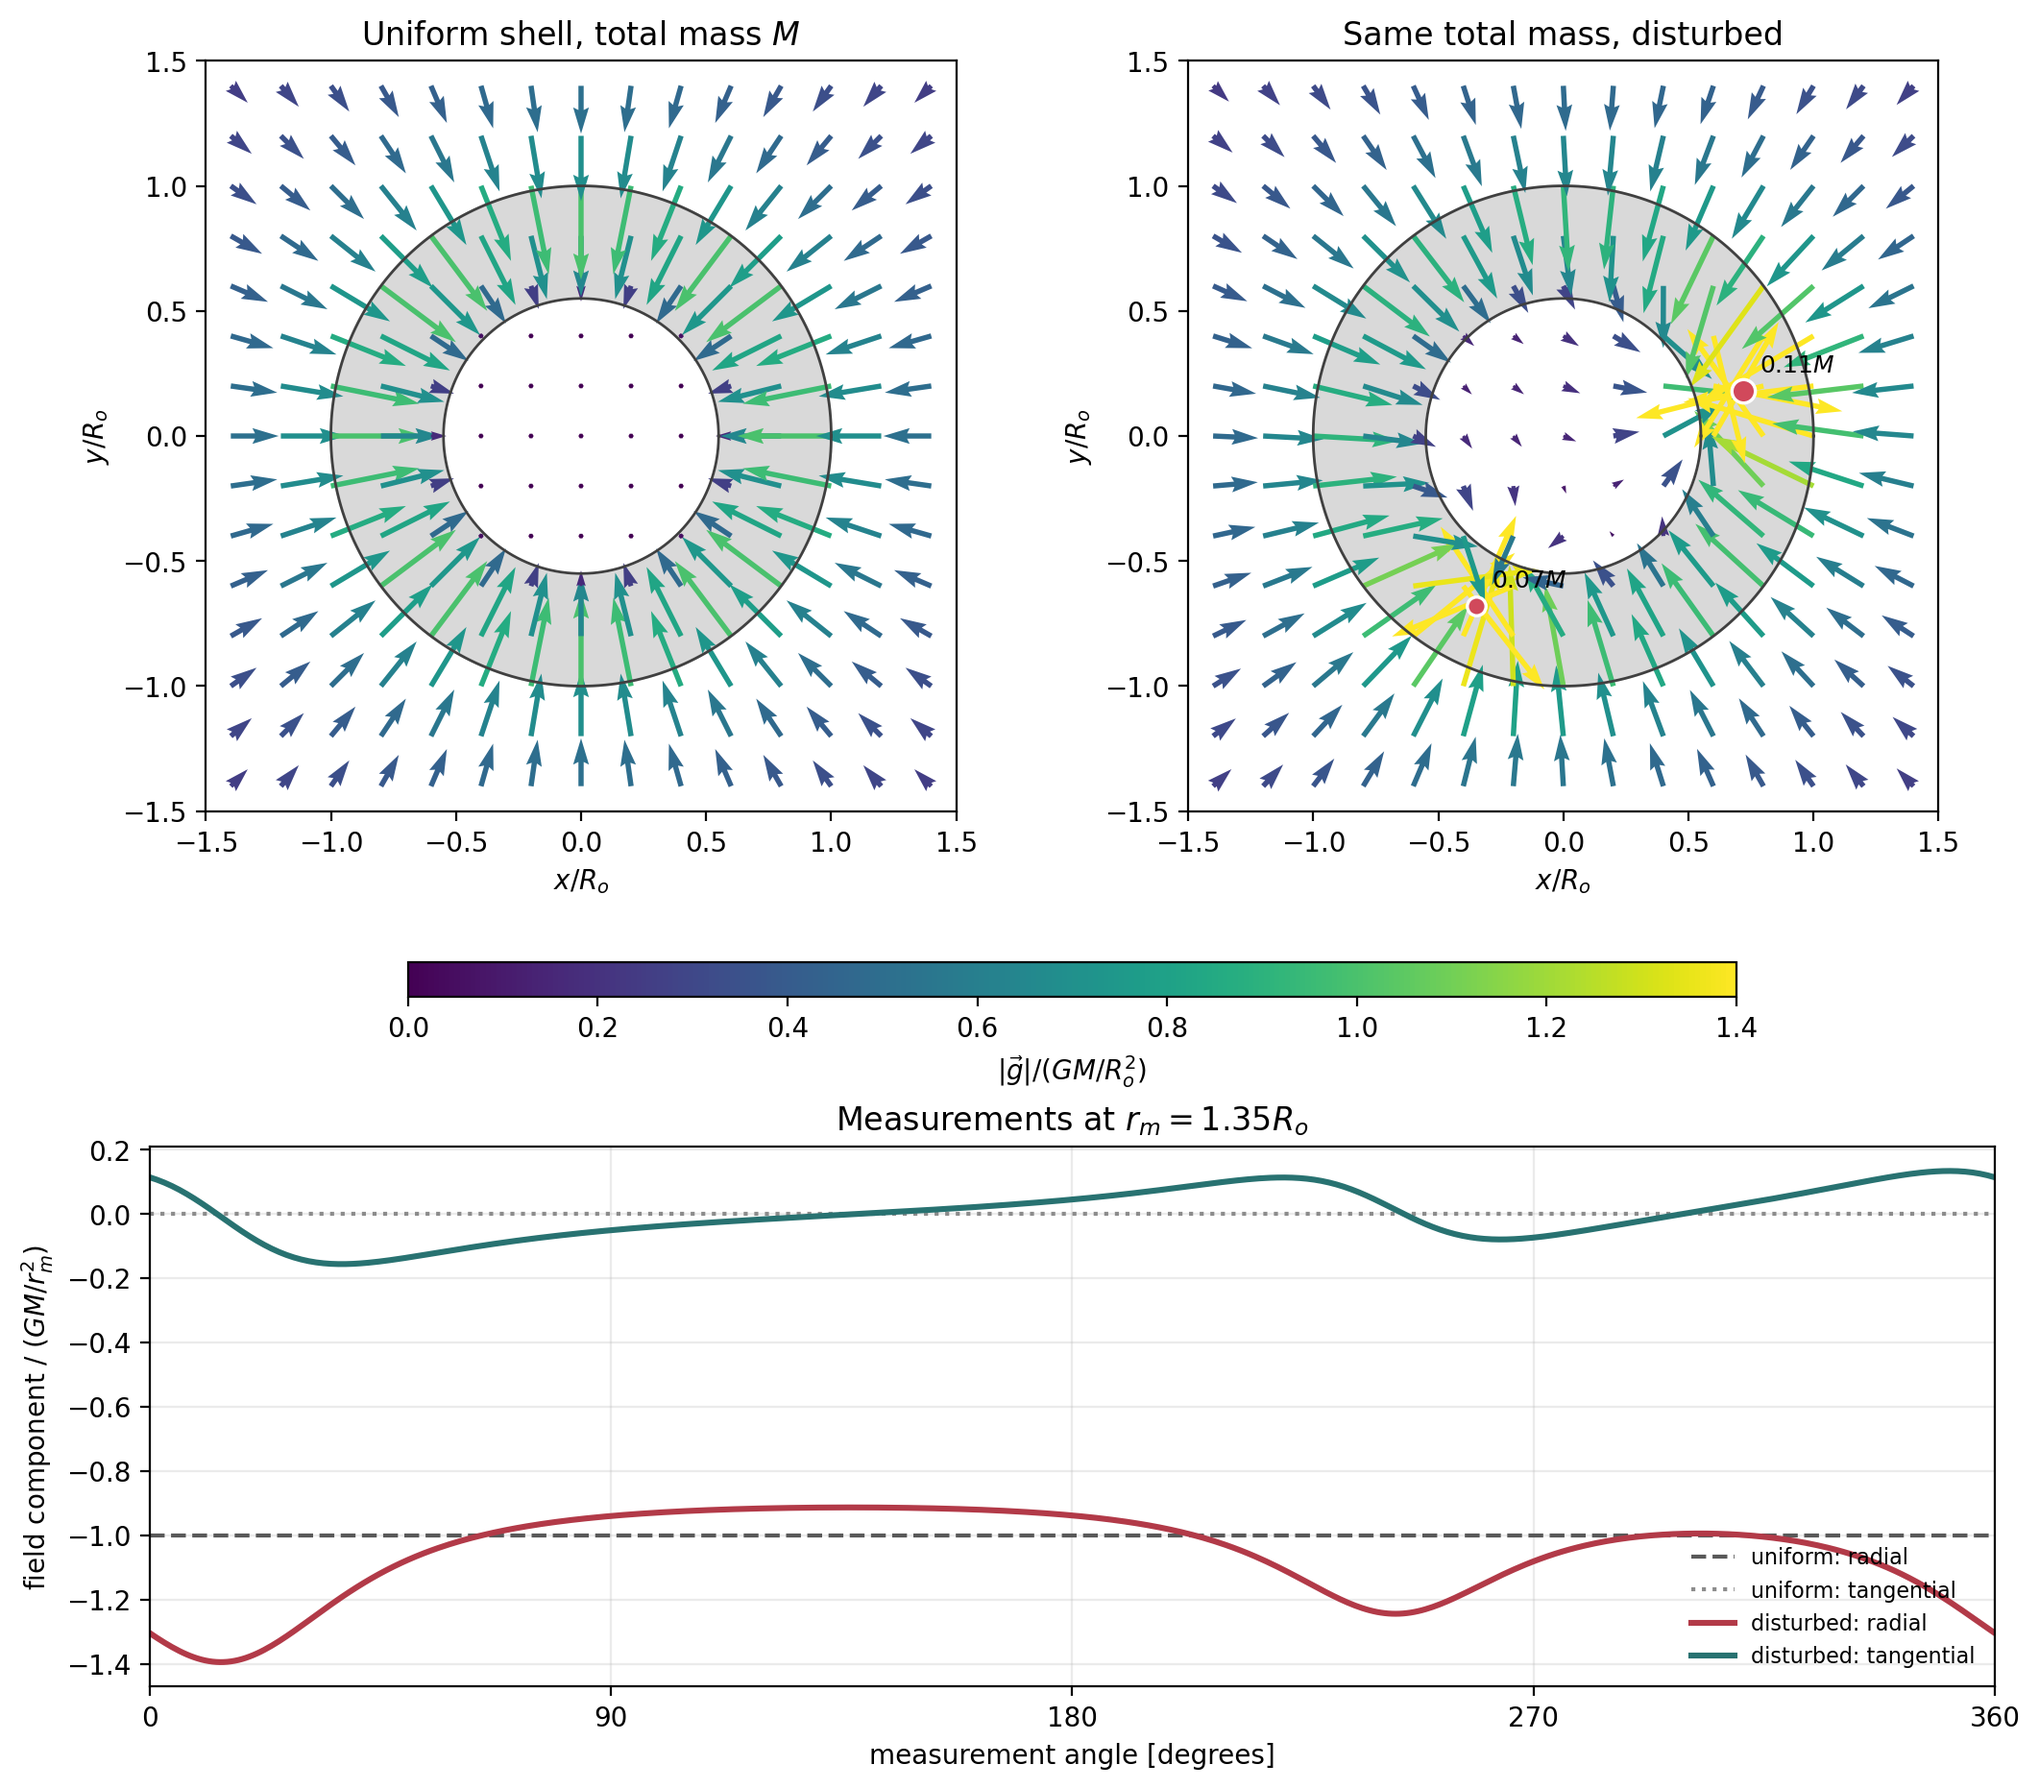
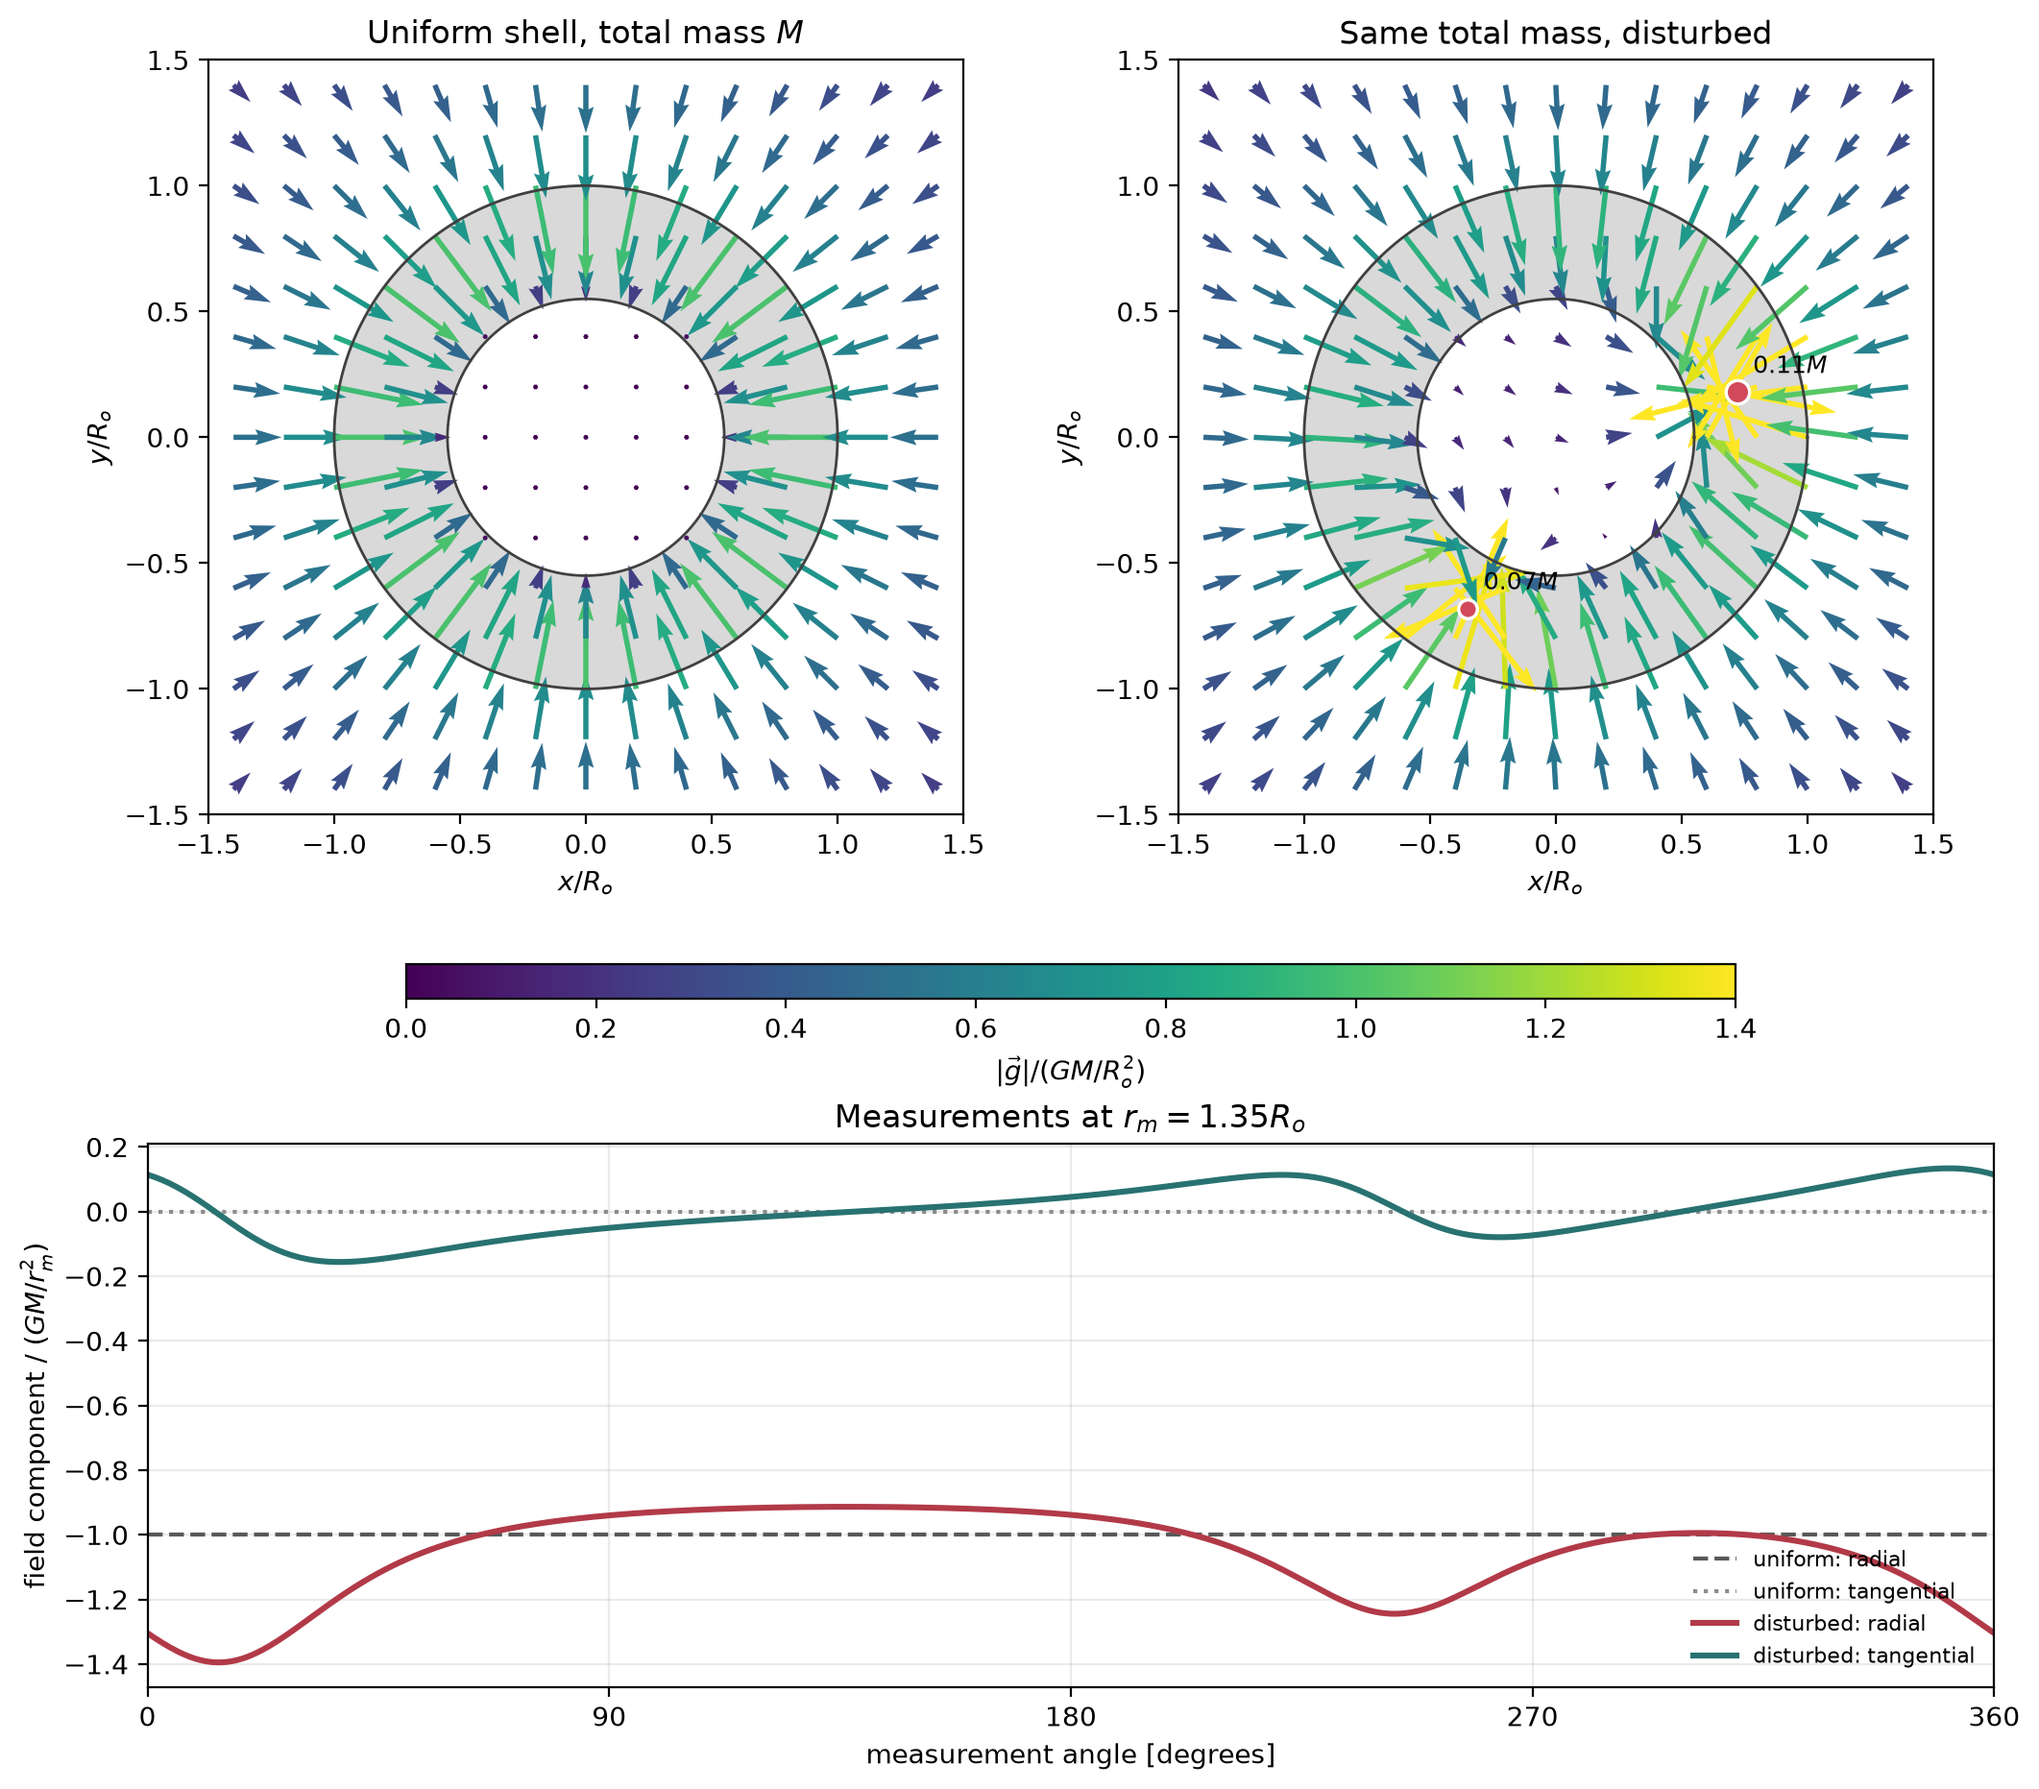
Use j for EM phasors and expand transmission-line surface currents

diff --git a/book/5_electromagnetic_waves/harmonic_waves.md b/book/5_electromagnetic_waves/harmonic_waves.md
@@ -66,13 +66,13 @@ A vacuum wave has $E_x=E_0\cos(2\pi\,10^8t-kz)$, using seconds and metres.
 Keeping track of amplitudes and phases with cosines soon gets tiresome. Euler's identity gives us a more convenient language:
 
 $$
-\cos\theta=\operatorname{Re}\{e^{i\theta}\}.
+\cos\theta=\operatorname{Re}\{e^{j\theta}\}.
 $$
 
-We can represent the same harmonic field by the complex expression
+Using $j$ for the imaginary unit, $j^2=-1$, we can represent the same harmonic field by the complex expression
 
 $$
-\boxed{E_x(z,t)=E_0e^{i(\omega t-kz+\phi)}.}
+\boxed{E_x(z,t)=E_0e^{j(\omega t-kz+\phi)}.}
 $$ (eq:em-plane-harmonic-complex)
 
 Formally, the measurable field is the **real part** of this expression. In practice, we will use the same symbol and treat harmonic fields as complex-valued, remembering to take the real part when we want the physical field. This is standard working practice in electromagnetics; getting comfortable with it will make the subject much easier.
@@ -80,37 +80,37 @@ Formally, the measurable field is the **real part** of this expression. In pract
 We can also separate out the time dependence:
 
 $$
-E_x(z,t)=E_x(z)e^{i\omega t},\qquad
-E_x(z)=E_0e^{i\phi}e^{-ikz}.
+E_x(z,t)=E_x(z)e^{j\omega t},\qquad
+E_x(z)=E_0e^{j\phi}e^{-jkz}.
 $$
 
-The time-independent complex amplitude $E_x(z)$ is called a **phasor**. It stores both amplitude and phase. To recover the physical field, use $\operatorname{Re}\{E_x(z)e^{i\omega t}\}$. Using the same symbol is slightly ambiguous, but the context tells us which representation we mean.
+The time-independent complex amplitude $E_x(z)$ is called a **phasor**. It stores both amplitude and phase. To recover the physical field, use $\operatorname{Re}\{E_x(z)e^{j\omega t}\}$. Using the same symbol is slightly ambiguous, but the context tells us which representation we mean.
 
 ### Simplifying derivatives using phasors
 
 For a harmonic field,
 
 $$
-\frac{\partial\vec E}{\partial t}=i\omega\vec E,
+\frac{\partial\vec E}{\partial t}=j\omega\vec E,
 $$
 
 and for a wave travelling along $+z$,
 
 $$
-\frac{\partial\vec E}{\partial z}=-ik\vec E.
+\frac{\partial\vec E}{\partial z}=-jk\vec E.
 $$
 
 Differentiation becomes multiplication. Maxwell's curl equations, written for the phasors, are then
 
 $$
-\vec\nabla\times\vec E=-i\omega\mu_0\vec H,
+\vec\nabla\times\vec E=-j\omega\mu_0\vec H,
 \qquad
-\vec\nabla\times\vec H=i\omega\epsilon_0\vec E.
+\vec\nabla\times\vec H=j\omega\epsilon_0\vec E.
 $$ (eq:em-plane-phasor-maxwell)
 
 The curl still has its geometric meaning. Complex notation handles the harmonic time dependence; it does not replace vector calculus.
 
-Our choice of $e^{+i\omega t}$ agrees with the {doc}`Fourier convention used for mechanical waves <../4_mechanical_waves/impedance>`. With this convention, a forward-travelling wave has $e^{-ikz}$. Changing convention is possible, but changing it halfway through a calculation is asking for trouble.
+Our choice of $e^{+j\omega t}$ agrees with the {doc}`Fourier convention used for mechanical waves <../4_mechanical_waves/impedance>`. With this convention, a forward-travelling wave has $e^{-jkz}$. Changing convention is possible, but changing it halfway through a calculation is asking for trouble.
 
 ### What about a radar pulse?
 

diff --git a/book/5_electromagnetic_waves/transmission_lines.md b/book/5_electromagnetic_waves/transmission_lines.md
@@ -11,13 +11,28 @@ Consider two ideal conducting plates, separated by a distance $d$ along $x$, wid
 Cross-section of an ideal parallel-plate line, looking along $+z$. The electric field points across the gap. The magnetic field runs across the width. The conductor current $I$ is positive along $+z$ on the lower plate; the upper plate carries the return current. The geometry is schematic.
 ```
 
-Define the voltage across the gap at a given $z$, and the current along the lower plate, by
+The voltage across the gap at a given $z$ comes from integrating $E_x$ across the separation. To obtain the current, we need the magnetic boundary condition at a conductor surface.
+
+A **surface current density** $\vec K_s$ has units of A/m: current per unit width of the surface. For the wave field inside an ideal conductor, $\vec H=0$. Applying Ampère's law to a small loop across the surface gives
 
 $$
-V(z,t)=dE_x(z,t),\qquad I(z,t)=wH_y(z,t).
+\boxed{\vec K_s=\hat n\times\vec H_{\mathrm{gap}},}
 $$
 
-The first relation comes from integrating the electric field across the gap. The second comes from Ampère's law around the plate, neglecting edge fields. We now multiply the coupled field equations for $E_x$ and $H_y$ from {doc}`plane_waves_1d` by $d$ and $w$:
+where $\hat n$ points **from the conductor into the gap**. Only the tangential magnetic field contributes. At the lower plate, $\hat n=\hat x$ and $\vec H=H_y\hat y$, so $\vec K_s=H_y\hat z$. Integrating across the width of the plate gives the total current:
+
+$$
+I(z,t)=\int_0^w K_{s,z}(z,t)\,dy=wH_y(z,t).
+$$
+
+On the upper plate the normal reverses, giving the return current. We therefore have
+
+$$
+V(z,t)=\int_0^d E_x(z,t)\,dx=dE_x(z,t),\qquad
+I(z,t)=wH_y(z,t).
+$$
+
+The last equalities use the approximately uniform fields between the wide plates. We now multiply the coupled field equations for $E_x$ and $H_y$ from {doc}`plane_waves_1d` by $d$ and $w$:
 
 $$
 \frac{\partial V}{\partial z}

diff --git a/book/5_electromagnetic_waves/radar_examples.md b/book/5_electromagnetic_waves/radar_examples.md
@@ -17,10 +17,10 @@ Ground-penetrating radar uses the same basic idea below the surface. There, turn
 
 ## A round trip becomes a phase
 
-For a harmonic signal, a one-way propagation distance $R$ contributes the factor $e^{-ikR}$. For a radar echo, the round-trip propagation therefore contributes
+Delaying a harmonic signal by $\Delta t$ multiplies it by $e^{-j\omega\Delta t}$. For a harmonic signal, a one-way propagation distance $R$ contributes the factor $e^{-jkR}$. For a radar echo, the round-trip propagation therefore contributes
 
 $$
-e^{-i2kR},
+e^{-j2kR},
 $$
 
 in addition to the target's own scattering response. Where the pulse picture turned a journey into a delay, the harmonic picture turns it into a phase.
